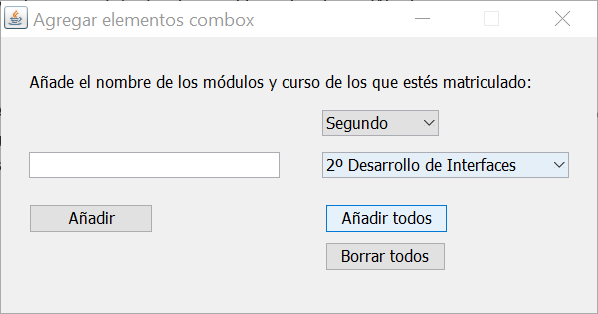
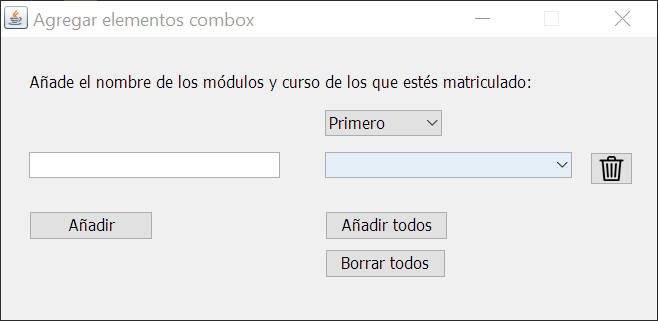
DI

diff --git a/README.md b/README.md
@@ -9,13 +9,16 @@ Crea una ventana que permita agregar elementos al listado de un *combobox* al da
 
 ## Parte 2
 
-Mejorar el ejercicio anterior para que haya exista un botón **agregar todo** que agregue todos los módulos del curso y otro botón **borrar todo** del *combobox* anterior. Averigua la forma de cambiar el *Look and Feel* de la ventana por defecto al que utiliza el sistema Windows.
+Mejorar el ejercicio anterior para que haya exista un botón **agregar todo** que agregue todos los módulos del curso y otro botón **borrar todo** del *combobox* anterior. 
+
+Averigua la forma de cambiar el *Look and Feel* de la ventana por defecto al que utiliza el sistema Windows.
 
 ## Parte 3
 
 Añade otro *combobox* para poder elegir curso:
 - Según esté elegido *Primero* o *Segundo* deberá agregar al principio del nombre del módulo a introducir 1º o 2º.
 - Según esté seleccionado uno u otro curso deberá de cargar todos los módulos de dicho curso seleccionado, al presionar el botón *añadir todos*.
+- Agrega un botón de borrar un solo elemento seleccionado del listado de módulos usando un icono de una papelera.
 
 ![](media/9d5dec85d5a68aeb8e5ba53d5234234.png)
  
